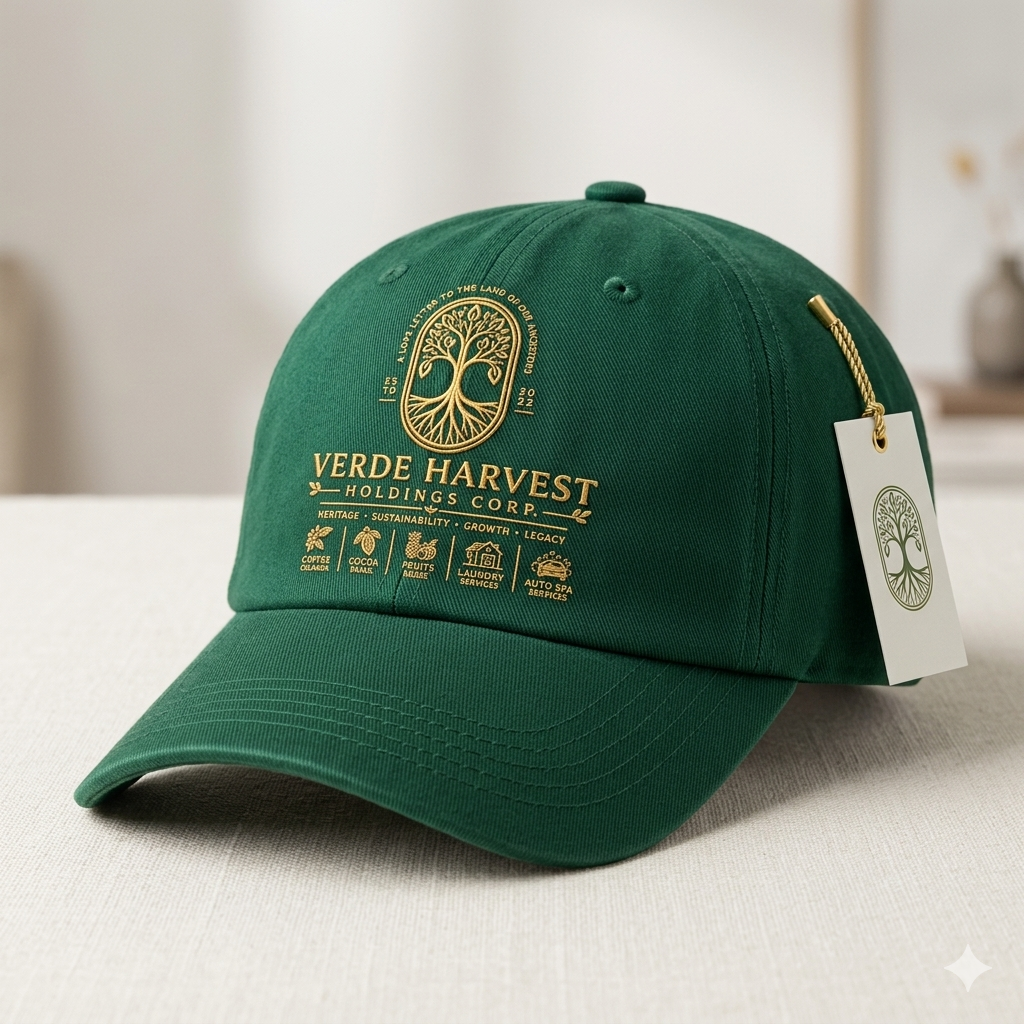
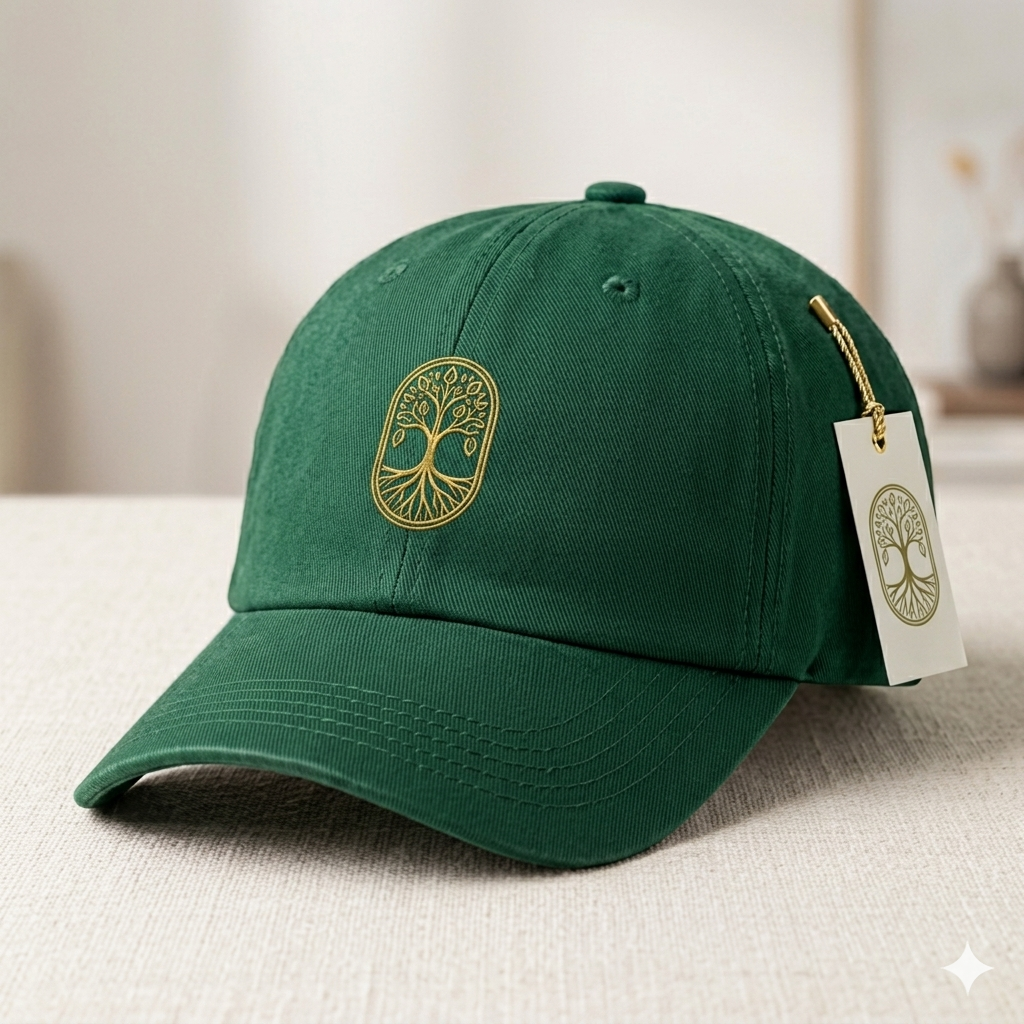
Add product images and update data.ts with image paths

diff --git a/src/data.ts b/src/data.ts
@@ -21,7 +21,8 @@ export const PRODUCTS: Product[] = [
       'OTM – Out The Mud Collection'
     ],
     category: 'apparel',
-    badge: 'OTM Gear'
+    badge: 'OTM Gear',
+    image: '/assets/images/OTM Performance Joggers.png'
   },
   {
     id: 'otm-triblend',
@@ -38,7 +39,8 @@ export const PRODUCTS: Product[] = [
       'OTM Gear Collection'
     ],
     category: 'apparel',
-    badge: 'OTM Gear'
+    badge: 'OTM Gear',
+    image: '/assets/images/OTM Tri Blend Tee.png'
   },
   {
     id: 'otm-flex-shorts',
@@ -55,7 +57,8 @@ export const PRODUCTS: Product[] = [
       'OTM Gear Collection'
     ],
     category: 'apparel',
-    badge: 'OTM Gear'
+    badge: 'OTM Gear',
+    image: '/assets/images/OTM Shorts.png'
   },
   {
     id: 'otm-zip-hoodie',
@@ -72,7 +75,8 @@ export const PRODUCTS: Product[] = [
       'OTM Gear Collection'
     ],
     category: 'apparel',
-    badge: 'OTM Gear'
+    badge: 'OTM Gear',
+    image: '/assets/images/OTM Zip Hoodie.png'
   },
   {
     id: 'otm-perf-hoodie',
@@ -89,7 +93,8 @@ export const PRODUCTS: Product[] = [
       'OTM Gear Collection'
     ],
     category: 'apparel',
-    badge: 'OTM Gear'
+    badge: 'OTM Gear',
+    image: '/assets/images/OTM Performance Hoodie.png'
   },
   {
     id: 'naomi-leggings',
@@ -106,7 +111,8 @@ export const PRODUCTS: Product[] = [
       'Naomi Rae Collection'
     ],
     category: 'apparel',
-    badge: 'Naomi Rae Collection'
+    badge: 'Naomi Rae Collection',
+    image: '/assets/images/Signature Leggings - Naomi Rae Collection.png'
   },
   {
     id: 'naomi-sculpt-shorts',
@@ -123,7 +129,8 @@ export const PRODUCTS: Product[] = [
       'Naomi Rae Collection'
     ],
     category: 'apparel',
-    badge: 'Naomi Rae Collection'
+    badge: 'Naomi Rae Collection',
+    image: '/assets/images/Sculpt Shorts - Naomi Rae Collection.png'
   },
   {
     id: 'naomi-luxe-zip',
@@ -140,7 +147,8 @@ export const PRODUCTS: Product[] = [
       'Naomi Rae Collection'
     ],
     category: 'apparel',
-    badge: 'Naomi Rae Collection'
+    badge: 'Naomi Rae Collection',
+    image: '/assets/images/Luxe Zip Hoodie - Naomi Rae Collection.png'
   },
   {
     id: 'naomi-perf-quarterzip',
@@ -157,7 +165,8 @@ export const PRODUCTS: Product[] = [
       'Naomi Rae Collection'
     ],
     category: 'apparel',
-    badge: 'Naomi Rae Collection'
+    badge: 'Naomi Rae Collection',
+    image: '/assets/images/Long sleeve performance shirt - Naomi Rae Collection.png'
   },
   {
     id: 'naomi-relaxed-joggers',
@@ -174,7 +183,8 @@ export const PRODUCTS: Product[] = [
       'Naomi Rae Collection'
     ],
     category: 'apparel',
-    badge: 'Naomi Rae Collection'
+    badge: 'Naomi Rae Collection',
+    image: "/assets/images/Women's Jogger Set.png"
   },
   {
     id: 'naomi-crop-tee',
@@ -191,7 +201,8 @@ export const PRODUCTS: Product[] = [
       'Naomi Rae Collection'
     ],
     category: 'apparel',
-    badge: 'Naomi Rae Collection'
+    badge: 'Naomi Rae Collection',
+    image: '/assets/images/Crop tee - Naomi Rae Collection.png'
   },
   {
     id: 'little-tee',
@@ -208,7 +219,8 @@ export const PRODUCTS: Product[] = [
       'Little Legends Collection'
     ],
     category: 'apparel',
-    badge: 'Little Legends Collection'
+    badge: 'Little Legends Collection',
+    image: '/assets/images/Kid T shirt.png'
   },
   {
     id: 'little-hoodie',
@@ -225,7 +237,8 @@ export const PRODUCTS: Product[] = [
       'Little Legends Collection'
     ],
     category: 'apparel',
-    badge: 'Little Legends Collection'
+    badge: 'Little Legends Collection',
+    image: '/assets/images/Kid Hoodie.png'
   },
   {
     id: 'little-joggers',
@@ -242,7 +255,8 @@ export const PRODUCTS: Product[] = [
       'Little Legends Collection'
     ],
     category: 'apparel',
-    badge: 'Little Legends Collection'
+    badge: 'Little Legends Collection',
+    image: '/assets/images/Youth Tee.png'
   },
   {
     id: 'little-shorts',
@@ -259,7 +273,8 @@ export const PRODUCTS: Product[] = [
       'Little Legends Collection'
     ],
     category: 'apparel',
-    badge: 'Little Legends Collection'
+    badge: 'Little Legends Collection',
+    image: '/assets/images/Youth Tee.png'
   },
 
   {
@@ -281,7 +296,7 @@ export const PRODUCTS: Product[] = [
       { name: 'Organic Roasting Code', value: 'Slow double carbon-monitored', icon: 'Flame' },
       { name: 'Athletic Adaptogens', value: 'Subtle clean recovery profiles', icon: 'Zap' }
     ],
-    image: '',
+    image: '/assets/images/pops_coffee_bag_1781457387033.jpg',
     category: 'coffee',
     badge: 'Coffee Collection'
   },
@@ -303,7 +318,7 @@ export const PRODUCTS: Product[] = [
       { name: 'Peach & Toffee Finish', value: 'High caramelization profiling', icon: 'Sunset' },
       { name: 'Ambassador Grade', value: 'Top 1.5% of world crops', icon: 'Crown' }
     ],
-    image: '',
+    image: '/assets/images/Coffee Blend Packaging.png',
     category: 'coffee',
     badge: 'Coffee Collection'
   },
@@ -322,7 +337,8 @@ export const PRODUCTS: Product[] = [
       'Indestructible Double Wall Steel'
     ],
     category: 'gear',
-    badge: 'Coffee Collection'
+    badge: 'Coffee Collection',
+    image: '/assets/images/Tumbler.png'
   },
   {
     id: 'sport-shaker',
@@ -339,7 +355,8 @@ export const PRODUCTS: Product[] = [
       'Perfect for Iced Coffee & Post-Run Shakes'
     ],
     category: 'gear',
-    badge: 'Coffee Collection'
+    badge: 'Coffee Collection',
+    image: '/assets/images/thermal_sport_shaker_1781458205534.jpg'
   },
   {
     id: 'coffee-cup',
@@ -355,7 +372,7 @@ export const PRODUCTS: Product[] = [
       'Microwave and dishwasher safe',
       '12oz capacity'
     ],
-    image: '',
+    image: '/assets/images/Cup.png',
     category: 'gear',
     badge: 'Coffee Collection'
   },
@@ -373,7 +390,7 @@ export const PRODUCTS: Product[] = [
       'Reusable and washable',
       'Fits standard coffee cups'
     ],
-    image: '',
+    image: '/assets/images/Cup Holder.png',
     category: 'gear',
     badge: 'Coffee Collection'
   }